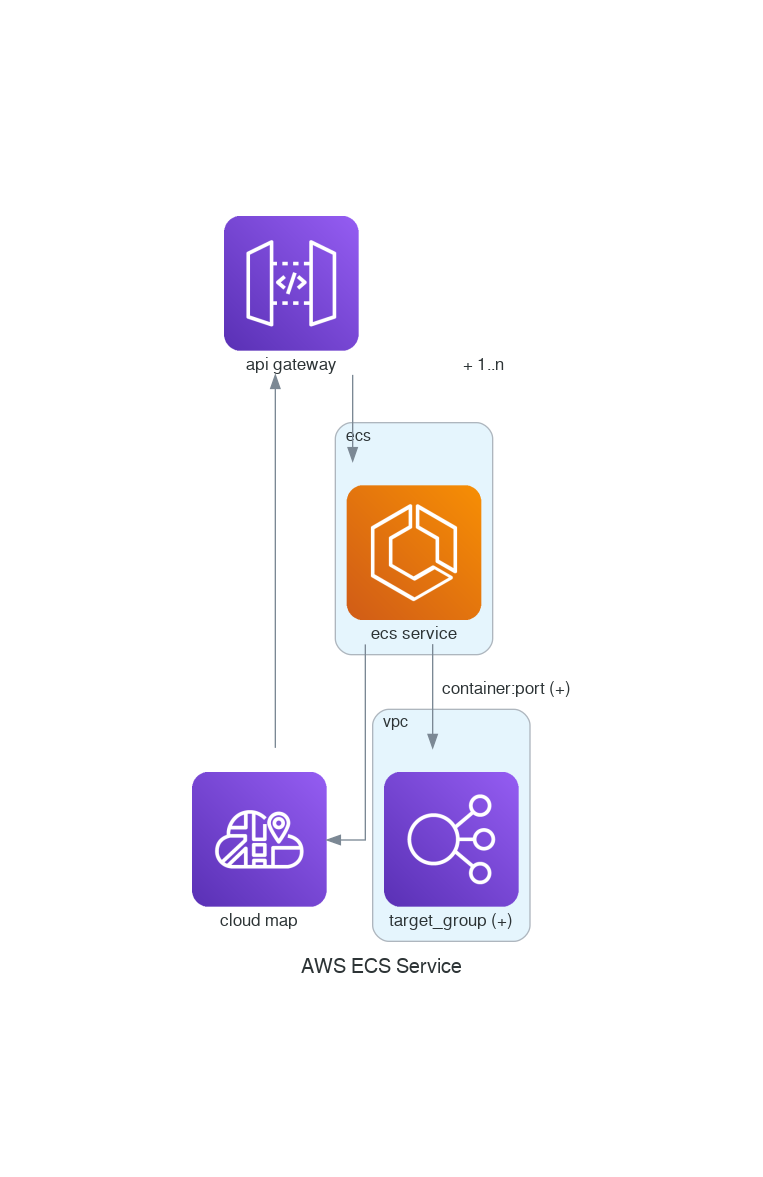
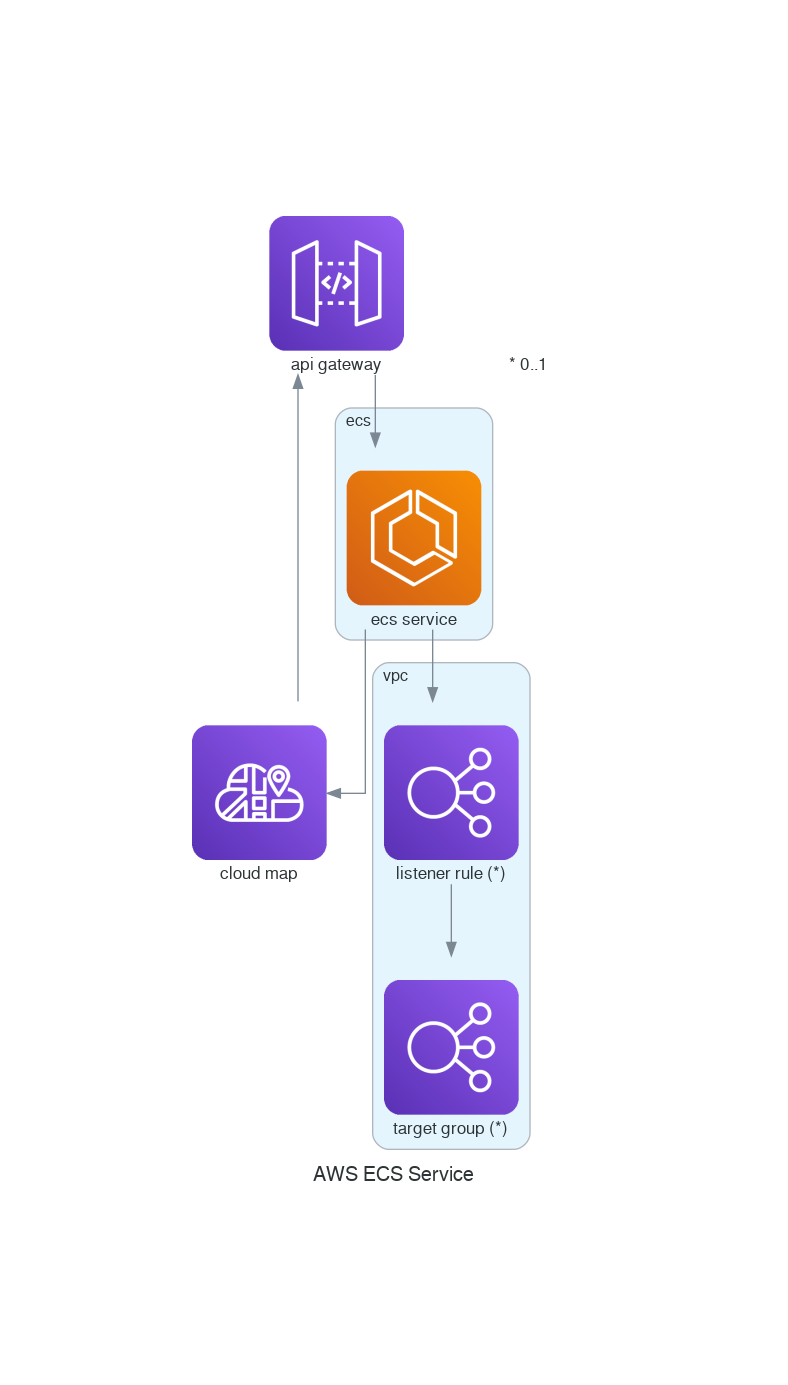
Updated diagram

Changed region(s): [[0.2412, 0.1529, 0.7235, 0.8564], [0.6632, 0.2447, 0.6933, 0.2753]]

diff --git a/diagram.py b/diagram.py
@@ -12,13 +12,14 @@ with Diagram("AWS ECS Service", show=False, direction="TB"):
 
     with Cluster("vpc"):
 
-        target_group = ELB("target_group (+)")
+        target_group = ELB("target group (*)")
+        listener_rule = ELB("listener rule (*)")
 
     with Cluster("ecs"):
 
      service = ECS("ecs service")
      api_gw >> service >> cloud_map
 
-     service >> Edge(label="container:port (+)") >> target_group
+     service >> listener_rule >> target_group
 
-    Blank("+ 1..n")
+    Blank("* 0..1")
